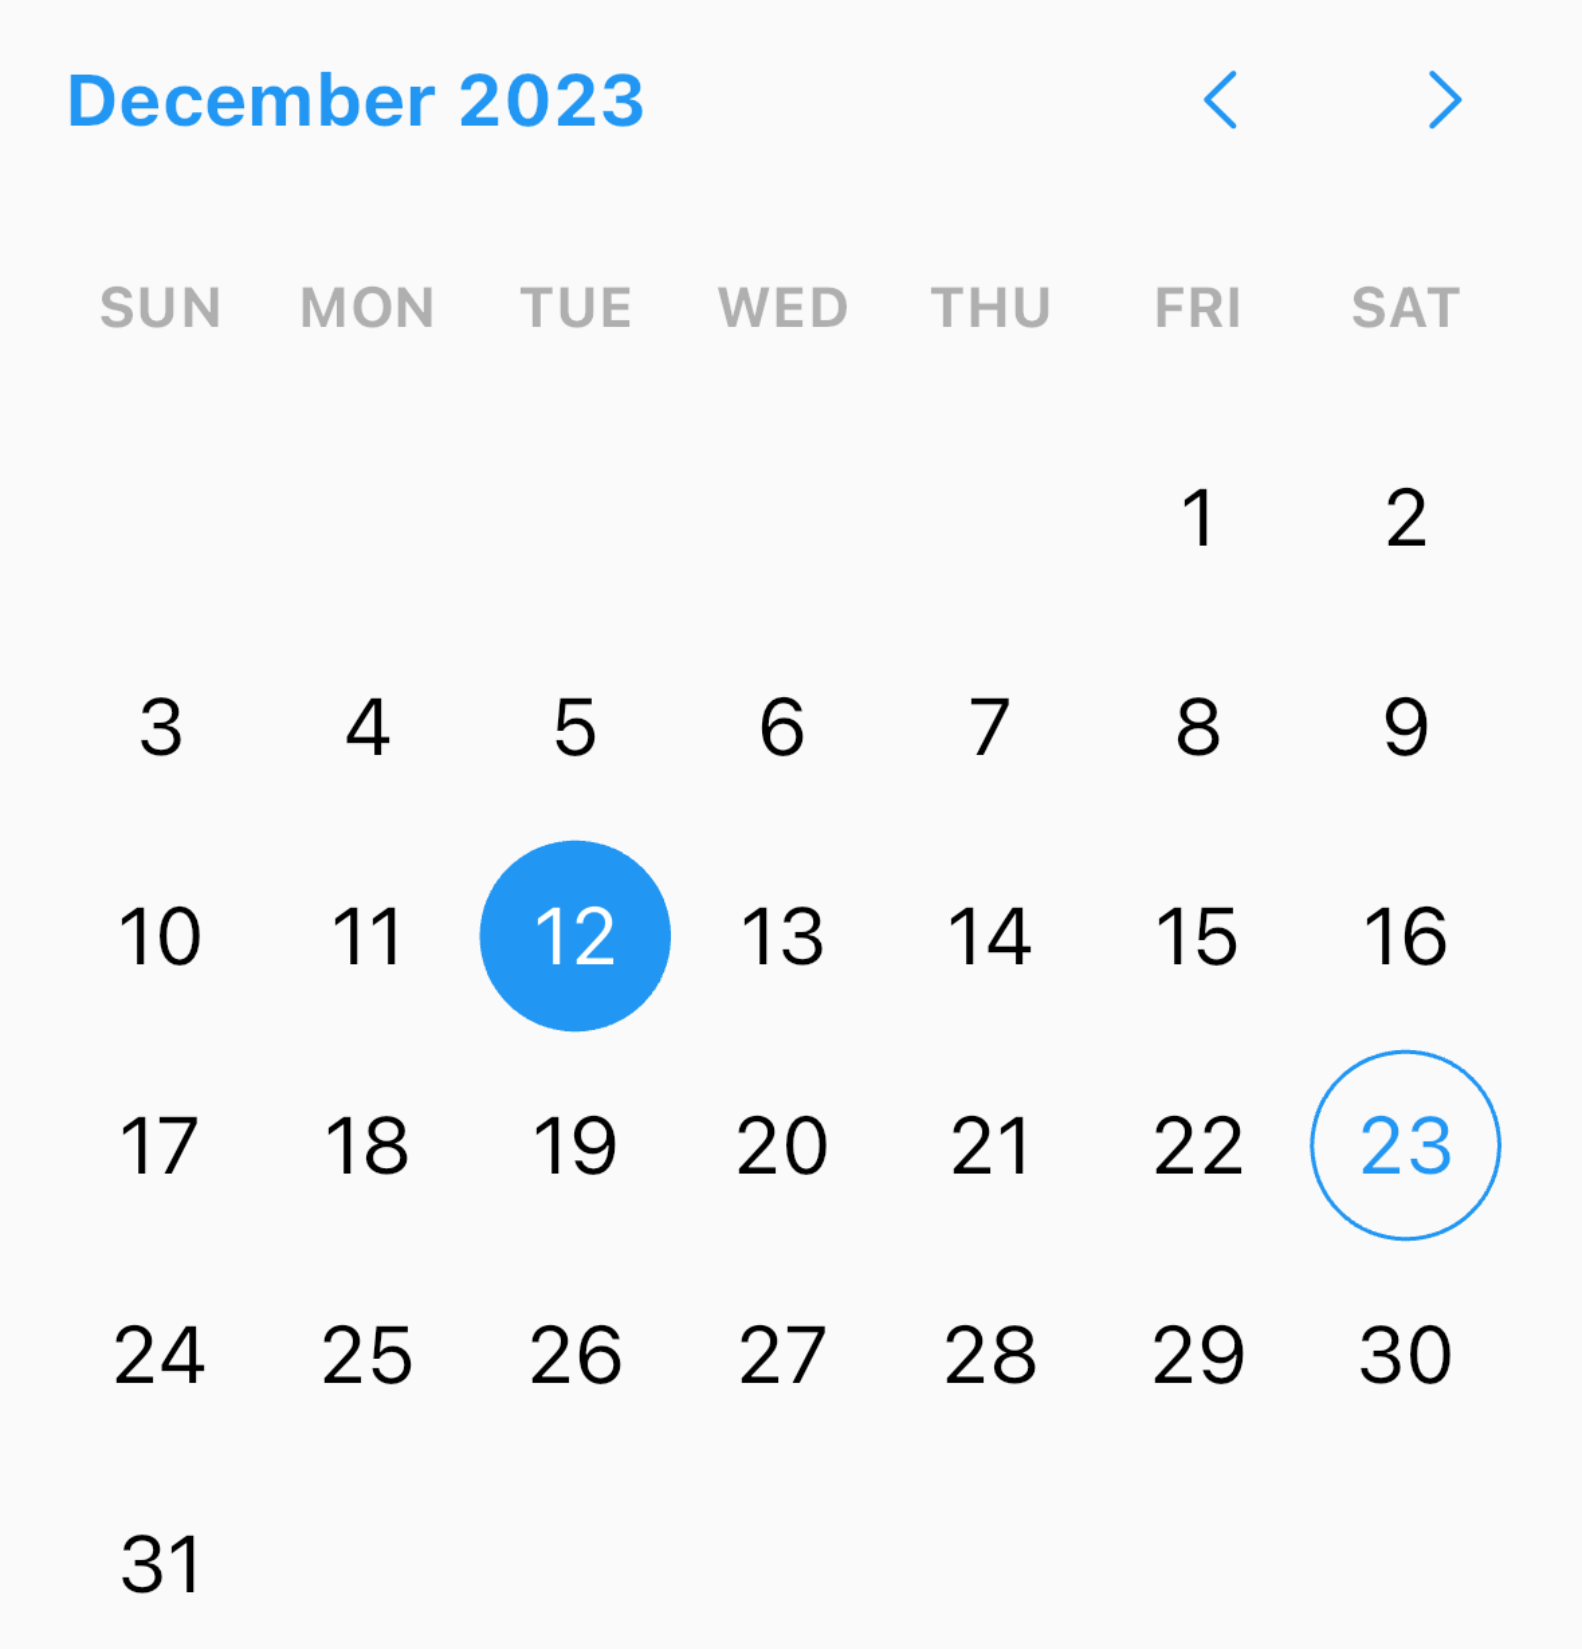
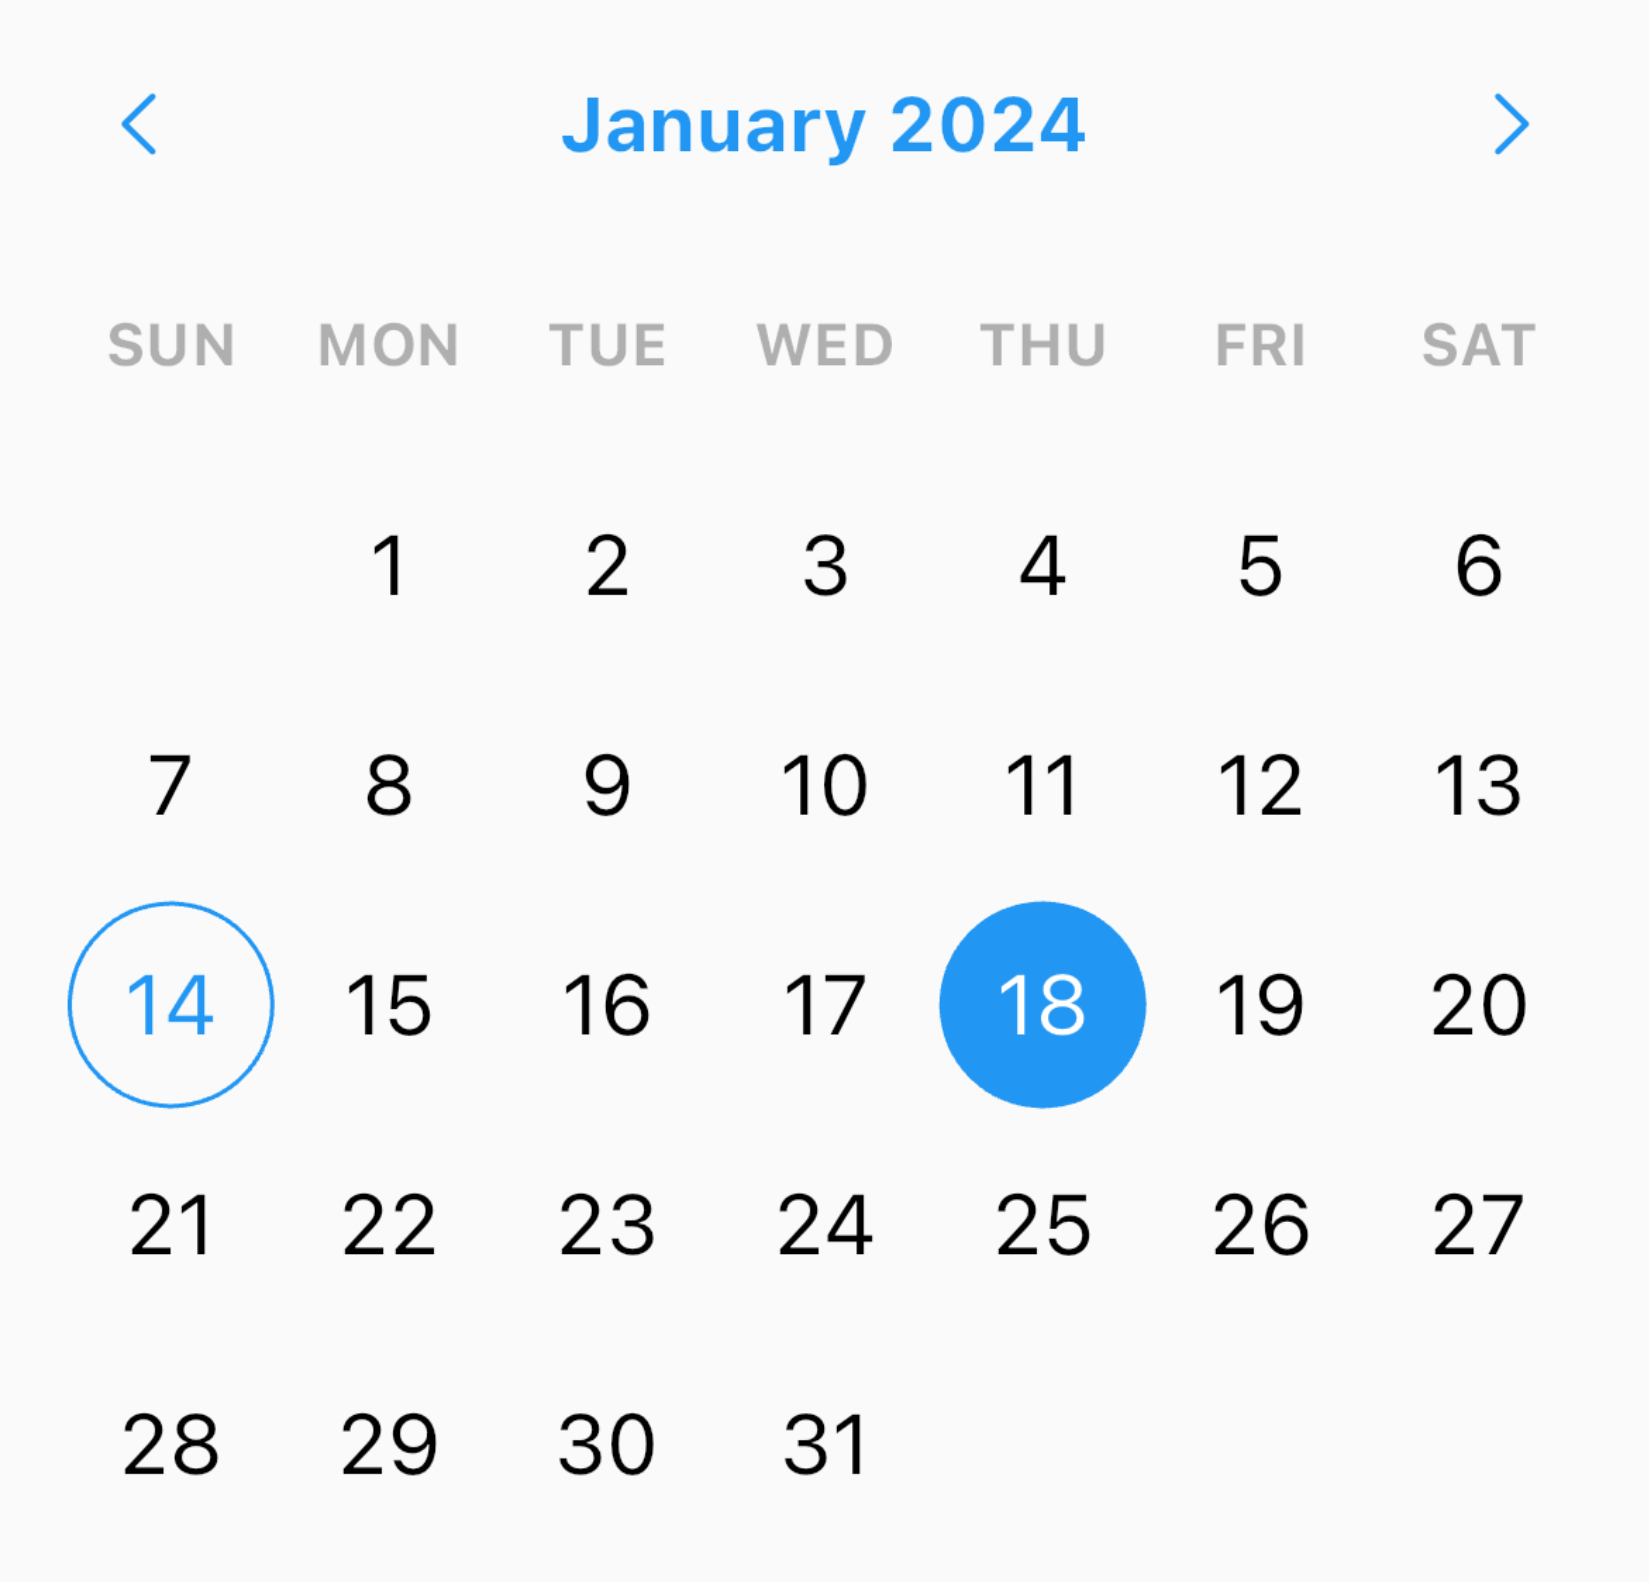
update image in readme

diff --git a/README.md b/README.md
@@ -86,6 +86,7 @@ final date = await showDatePickerDialog(
       slidersSize: 20,
       splashColor: Colors.lightBlueAccent,
       splashRadius: 40,
+      centerLeadingDate: true,
 );
 ```
 
@@ -115,6 +116,7 @@ final range = await showRangePickerDialog(
       slidersSize: 20,
       splashColor: Colors.lightBlueAccent,
       splashRadius: 40,
+      centerLeadingDate: true,
 );
 ```
 
